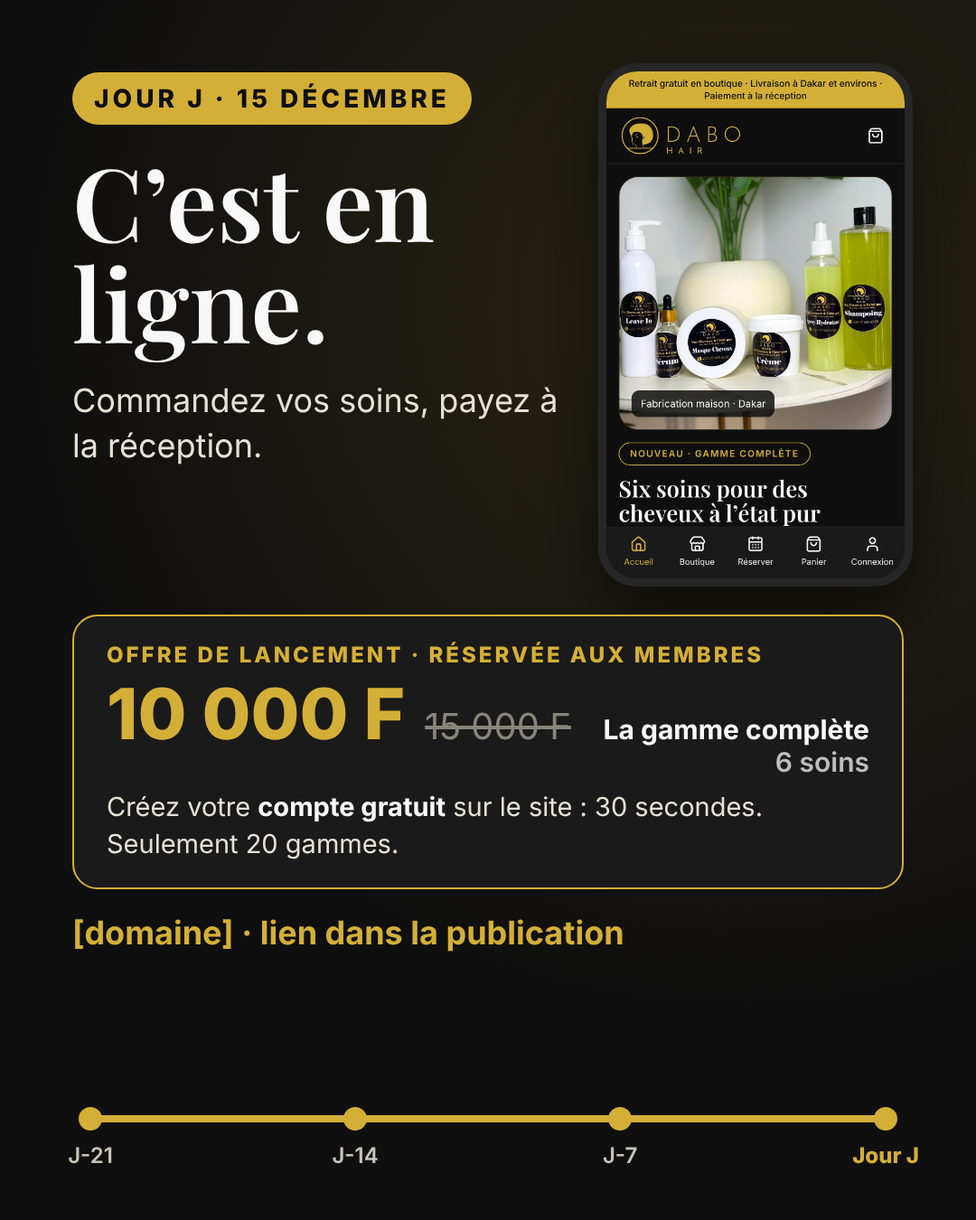
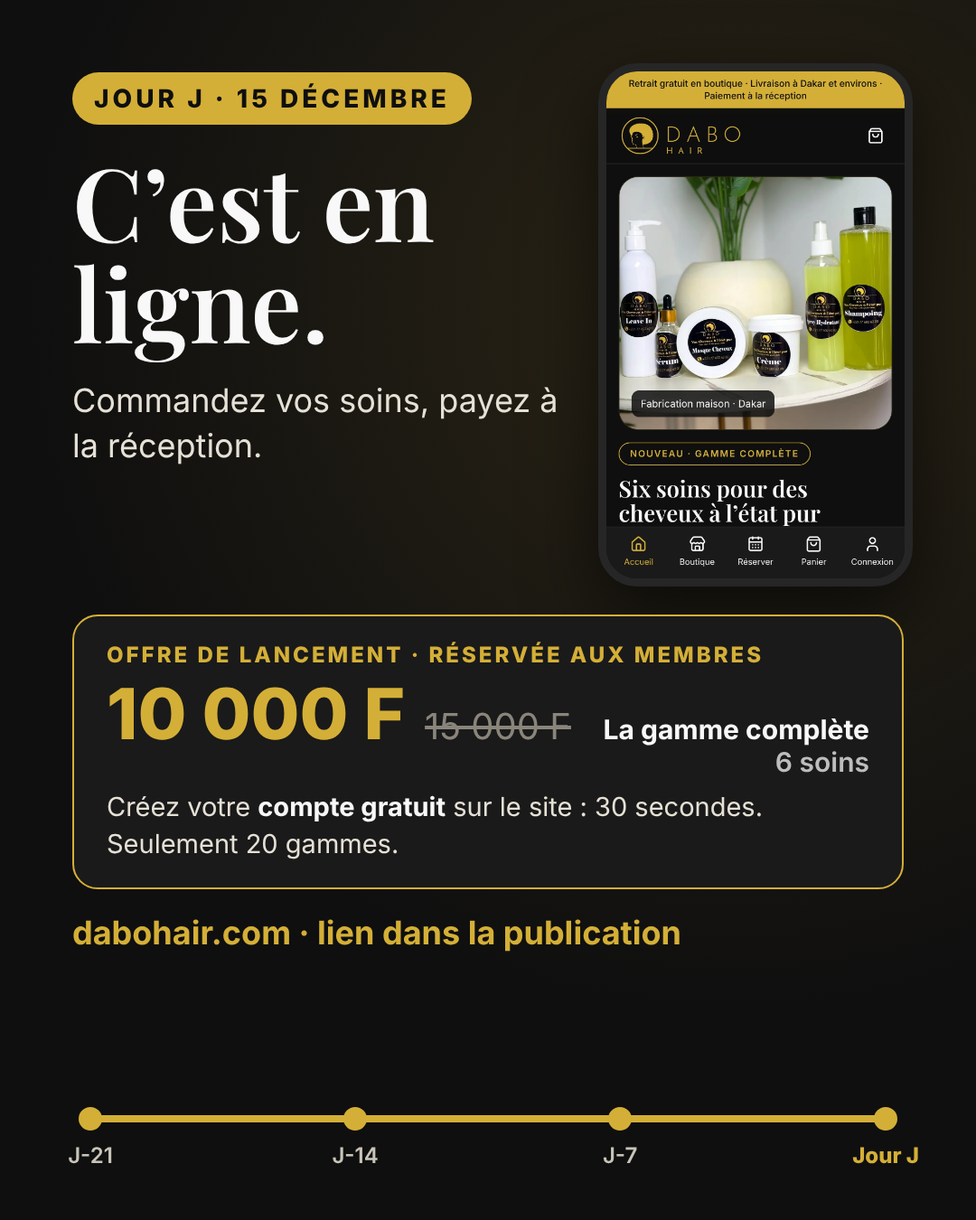
Domaine dabohair.com et Zoho Mail décidés : docs, publicités, agent
- 11_DEPLOIEMENT : décision du domaine, §1.4 e-mail (Zoho Mail Lite pour
  les boîtes, Brevo pour les envois du site, DNS MX/SPF/DKIM/DMARC),
  budget mis à jour
- Publicités Jour J : dabohair.com dans les sources et images ré-exportées
- Agent maquettes-promo : domaine connu
- .env.example : expéditeur contact@dabohair.com

Claude-Session: https://claude.ai/code/session_01AJ1A2royRJkyTBVVnu2ynX

Changed region(s): [[0.0611, 0.7467, 0.7028, 0.7778]]

diff --git a/marketing/sources/lancement/04-JourJ-snapchat.html b/marketing/sources/lancement/04-JourJ-snapchat.html
@@ -1,4 +1,4 @@
 <!doctype html>
 <html lang="fr"><head><meta charset="utf-8"><link rel="stylesheet" href="https://fonts.googleapis.com/css2?family=Inter:wght@400;600;700;800&family=Playfair+Display:wght@600;700&display=swap"><style>body{margin:0;background:#0f0f0f}</style></head><body>
-<div style="width:1080px;height:1920px;background:#0f0f0f;color:#f8f8f8;font-family:Inter,system-ui,sans-serif;position:relative;overflow:hidden"><div style="position:absolute;inset:0;background:radial-gradient(circle at 50% 40%,#2b2516 0,#0f0f0f 65%)"></div><span style="position:absolute;top:260px;left:0;right:0;text-align:center;font-family:'Playfair Display',serif;font-size:130px;font-weight:600;line-height:1">C’est en ligne.</span><div style="position:absolute;top:450px;left:80px;right:80px;display:flex;align-items:center;gap:44px"><div style="width:330px;height:561px;border-radius:43px;border:9px solid #262626;background:#0f0f0f;overflow:hidden;box-shadow:0 30px 80px rgba(0,0,0,.6);flex:none"><img src="../_images/site-accueil-tel.webp" alt="Le site Dabo Hair sur téléphone" style="width:100%;height:100%;object-fit:cover;object-position:top"></div><div style="width:526px;display:flex;flex-direction:column;gap:14px;text-align:left"><span style="font-size:24px;font-weight:800;letter-spacing:3px;text-transform:uppercase;color:#d4af37;font-size:26px">Réservé aux membres</span><span style="font-size:38px;font-weight:700;line-height:1.2">La gamme complète, 6&nbsp;soins</span><strong style="font-size:88px;font-weight:800;color:#d4af37;line-height:1">10 000 F</strong><span style="font-size:34px;color:#bdbdbd">au lieu de <s>15 000 F</s></span><span style="font-size:32px;line-height:1.35;color:#e6e1d6">Créez votre <strong style="color:#f8f8f8">compte gratuit</strong> sur le site&nbsp;: 30&nbsp;secondes.</span><span style="font-size:28px;font-weight:700;color:#bdbdbd">Seulement 20 gammes</span></div></div><div style="position:absolute;left:0;right:0;top:1100px;background:rgba(0,0,0,.6);padding:22px 50px;text-align:center;font-size:46px;font-weight:600;line-height:1.3">Touchez le lien attaché pour commander</div><span style="position:absolute;top:1290px;left:0;right:0;text-align:center;font-size:44px;font-weight:700;color:#d4af37">[domaine]</span><div style="position:absolute;left:80px;right:80px;top:1470px"><div style="width:920px;padding:0 20px;box-sizing:border-box"><div style="position:relative;height:8px;border-radius:999px;background:#2b2516;margin-bottom:48px"><div style="width:100%;height:100%;border-radius:999px;background:#d4af37"></div><span style="position:absolute;left:0%;top:50%;transform:translate(-50%,-50%);width:26px;height:26px;border-radius:999px;background:#d4af37;border:3px solid #d4af37;box-sizing:border-box"></span><span style="position:absolute;left:0%;top:30px;transform:translateX(-50%);font-size:24px;font-weight:600;color:#c9c4b8;white-space:nowrap">J-21</span><span style="position:absolute;left:33.3%;top:50%;transform:translate(-50%,-50%);width:26px;height:26px;border-radius:999px;background:#d4af37;border:3px solid #d4af37;box-sizing:border-box"></span><span style="position:absolute;left:33.3%;top:30px;transform:translateX(-50%);font-size:24px;font-weight:600;color:#c9c4b8;white-space:nowrap">J-14</span><span style="position:absolute;left:66.6%;top:50%;transform:translate(-50%,-50%);width:26px;height:26px;border-radius:999px;background:#d4af37;border:3px solid #d4af37;box-sizing:border-box"></span><span style="position:absolute;left:66.6%;top:30px;transform:translateX(-50%);font-size:24px;font-weight:600;color:#c9c4b8;white-space:nowrap">J-7</span><span style="position:absolute;left:100%;top:50%;transform:translate(-50%,-50%);width:26px;height:26px;border-radius:999px;background:#d4af37;border:3px solid #d4af37;box-sizing:border-box"></span><span style="position:absolute;left:100%;top:30px;transform:translateX(-50%);font-size:24px;font-weight:800;color:#d4af37;white-space:nowrap">Jour J</span></div></div></div></div>
+<div style="width:1080px;height:1920px;background:#0f0f0f;color:#f8f8f8;font-family:Inter,system-ui,sans-serif;position:relative;overflow:hidden"><div style="position:absolute;inset:0;background:radial-gradient(circle at 50% 40%,#2b2516 0,#0f0f0f 65%)"></div><span style="position:absolute;top:260px;left:0;right:0;text-align:center;font-family:'Playfair Display',serif;font-size:130px;font-weight:600;line-height:1">C’est en ligne.</span><div style="position:absolute;top:450px;left:80px;right:80px;display:flex;align-items:center;gap:44px"><div style="width:330px;height:561px;border-radius:43px;border:9px solid #262626;background:#0f0f0f;overflow:hidden;box-shadow:0 30px 80px rgba(0,0,0,.6);flex:none"><img src="../_images/site-accueil-tel.webp" alt="Le site Dabo Hair sur téléphone" style="width:100%;height:100%;object-fit:cover;object-position:top"></div><div style="width:526px;display:flex;flex-direction:column;gap:14px;text-align:left"><span style="font-size:24px;font-weight:800;letter-spacing:3px;text-transform:uppercase;color:#d4af37;font-size:26px">Réservé aux membres</span><span style="font-size:38px;font-weight:700;line-height:1.2">La gamme complète, 6&nbsp;soins</span><strong style="font-size:88px;font-weight:800;color:#d4af37;line-height:1">10 000 F</strong><span style="font-size:34px;color:#bdbdbd">au lieu de <s>15 000 F</s></span><span style="font-size:32px;line-height:1.35;color:#e6e1d6">Créez votre <strong style="color:#f8f8f8">compte gratuit</strong> sur le site&nbsp;: 30&nbsp;secondes.</span><span style="font-size:28px;font-weight:700;color:#bdbdbd">Seulement 20 gammes</span></div></div><div style="position:absolute;left:0;right:0;top:1100px;background:rgba(0,0,0,.6);padding:22px 50px;text-align:center;font-size:46px;font-weight:600;line-height:1.3">Touchez le lien attaché pour commander</div><span style="position:absolute;top:1290px;left:0;right:0;text-align:center;font-size:44px;font-weight:700;color:#d4af37">dabohair.com</span><div style="position:absolute;left:80px;right:80px;top:1470px"><div style="width:920px;padding:0 20px;box-sizing:border-box"><div style="position:relative;height:8px;border-radius:999px;background:#2b2516;margin-bottom:48px"><div style="width:100%;height:100%;border-radius:999px;background:#d4af37"></div><span style="position:absolute;left:0%;top:50%;transform:translate(-50%,-50%);width:26px;height:26px;border-radius:999px;background:#d4af37;border:3px solid #d4af37;box-sizing:border-box"></span><span style="position:absolute;left:0%;top:30px;transform:translateX(-50%);font-size:24px;font-weight:600;color:#c9c4b8;white-space:nowrap">J-21</span><span style="position:absolute;left:33.3%;top:50%;transform:translate(-50%,-50%);width:26px;height:26px;border-radius:999px;background:#d4af37;border:3px solid #d4af37;box-sizing:border-box"></span><span style="position:absolute;left:33.3%;top:30px;transform:translateX(-50%);font-size:24px;font-weight:600;color:#c9c4b8;white-space:nowrap">J-14</span><span style="position:absolute;left:66.6%;top:50%;transform:translate(-50%,-50%);width:26px;height:26px;border-radius:999px;background:#d4af37;border:3px solid #d4af37;box-sizing:border-box"></span><span style="position:absolute;left:66.6%;top:30px;transform:translateX(-50%);font-size:24px;font-weight:600;color:#c9c4b8;white-space:nowrap">J-7</span><span style="position:absolute;left:100%;top:50%;transform:translate(-50%,-50%);width:26px;height:26px;border-radius:999px;background:#d4af37;border:3px solid #d4af37;box-sizing:border-box"></span><span style="position:absolute;left:100%;top:30px;transform:translateX(-50%);font-size:24px;font-weight:800;color:#d4af37;white-space:nowrap">Jour J</span></div></div></div></div>
 </body></html>

diff --git a/docs/maquettes/sources/Lancement4Snap.dc.html b/docs/maquettes/sources/Lancement4Snap.dc.html
@@ -11,7 +11,7 @@
 <link rel="stylesheet" href="https://fonts.googleapis.com/css2?family=Inter:wght@400;500;600;700;800&family=Playfair+Display:wght@500;600;700&display=swap">
 <style>body{margin:0;background:#0f0f0f}</style>
 </helmet>
-<div style="width:1080px;height:1920px;background:#0f0f0f;color:#f8f8f8;font-family:Inter,system-ui,sans-serif;position:relative;overflow:hidden"><div style="position:absolute;inset:0;background:radial-gradient(circle at 50% 40%,#2b2516 0,#0f0f0f 65%)"></div><span style="position:absolute;top:230px;left:0;right:0;text-align:center;font-family:'Playfair Display',serif;font-size:130px;font-weight:600;line-height:1">C’est en ligne.</span><div style="position:absolute;top:420px;left:0;right:0;display:flex;justify-content:center"><div style="width:440px;height:748px;border-radius:57px;border:12px solid #262626;background:#0f0f0f;overflow:hidden;box-shadow:0 30px 80px rgba(0,0,0,.6);flex:none"><img src="/_blob/2ff386b7bced4af89435f0a29ca485e6" alt="Le site Dabo Hair sur téléphone" style="width:100%;height:100%;object-fit:cover;object-position:top"></div></div><div style="position:absolute;left:0;right:0;top:1200px;background:rgba(0,0,0,.6);padding:22px 50px;text-align:center;font-size:46px;font-weight:600;line-height:1.3">Touche le lien attaché pour commander</div><span style="position:absolute;top:1360px;left:0;right:0;text-align:center;font-size:44px;font-weight:700;color:#d4af37">[domaine]</span><div style="position:absolute;left:80px;right:80px;top:1500px"><div style="width:920px;padding:0 20px;box-sizing:border-box"><div style="position:relative;height:8px;border-radius:999px;background:#2b2516;margin-bottom:48px"><div style="width:100%;height:100%;border-radius:999px;background:#d4af37"></div><span style="position:absolute;left:0%;top:50%;transform:translate(-50%,-50%);width:26px;height:26px;border-radius:999px;background:#d4af37;border:3px solid #d4af37;box-sizing:border-box"></span><span style="position:absolute;left:0%;top:30px;transform:translateX(-50%);font-size:24px;font-weight:600;color:#c9c4b8;white-space:nowrap">J-21</span><span style="position:absolute;left:33.3%;top:50%;transform:translate(-50%,-50%);width:26px;height:26px;border-radius:999px;background:#d4af37;border:3px solid #d4af37;box-sizing:border-box"></span><span style="position:absolute;left:33.3%;top:30px;transform:translateX(-50%);font-size:24px;font-weight:600;color:#c9c4b8;white-space:nowrap">J-14</span><span style="position:absolute;left:66.6%;top:50%;transform:translate(-50%,-50%);width:26px;height:26px;border-radius:999px;background:#d4af37;border:3px solid #d4af37;box-sizing:border-box"></span><span style="position:absolute;left:66.6%;top:30px;transform:translateX(-50%);font-size:24px;font-weight:600;color:#c9c4b8;white-space:nowrap">J-7</span><span style="position:absolute;left:100%;top:50%;transform:translate(-50%,-50%);width:26px;height:26px;border-radius:999px;background:#d4af37;border:3px solid #d4af37;box-sizing:border-box"></span><span style="position:absolute;left:100%;top:30px;transform:translateX(-50%);font-size:24px;font-weight:800;color:#d4af37;white-space:nowrap">Jour J</span></div></div></div><div style="position:absolute;inset:0 0 auto 0;height:180px;border-bottom:2px dashed rgba(212,175,55,.35);display:flex;align-items:flex-end;justify-content:center;padding-bottom:8px;box-sizing:border-box;font-size:20px;color:rgba(212,175,55,.6)">Zone du nom (Snapchat)</div><div style="position:absolute;inset:auto 0 0 0;height:280px;border-top:2px dashed rgba(212,175,55,.35);display:flex;justify-content:center;padding-top:8px;box-sizing:border-box;font-size:20px;color:rgba(212,175,55,.6)">Zone « Répondre » et lien attaché (Snapchat)</div></div>
+<div style="width:1080px;height:1920px;background:#0f0f0f;color:#f8f8f8;font-family:Inter,system-ui,sans-serif;position:relative;overflow:hidden"><div style="position:absolute;inset:0;background:radial-gradient(circle at 50% 40%,#2b2516 0,#0f0f0f 65%)"></div><span style="position:absolute;top:230px;left:0;right:0;text-align:center;font-family:'Playfair Display',serif;font-size:130px;font-weight:600;line-height:1">C’est en ligne.</span><div style="position:absolute;top:420px;left:0;right:0;display:flex;justify-content:center"><div style="width:440px;height:748px;border-radius:57px;border:12px solid #262626;background:#0f0f0f;overflow:hidden;box-shadow:0 30px 80px rgba(0,0,0,.6);flex:none"><img src="/_blob/2ff386b7bced4af89435f0a29ca485e6" alt="Le site Dabo Hair sur téléphone" style="width:100%;height:100%;object-fit:cover;object-position:top"></div></div><div style="position:absolute;left:0;right:0;top:1200px;background:rgba(0,0,0,.6);padding:22px 50px;text-align:center;font-size:46px;font-weight:600;line-height:1.3">Touche le lien attaché pour commander</div><span style="position:absolute;top:1360px;left:0;right:0;text-align:center;font-size:44px;font-weight:700;color:#d4af37">dabohair.com</span><div style="position:absolute;left:80px;right:80px;top:1500px"><div style="width:920px;padding:0 20px;box-sizing:border-box"><div style="position:relative;height:8px;border-radius:999px;background:#2b2516;margin-bottom:48px"><div style="width:100%;height:100%;border-radius:999px;background:#d4af37"></div><span style="position:absolute;left:0%;top:50%;transform:translate(-50%,-50%);width:26px;height:26px;border-radius:999px;background:#d4af37;border:3px solid #d4af37;box-sizing:border-box"></span><span style="position:absolute;left:0%;top:30px;transform:translateX(-50%);font-size:24px;font-weight:600;color:#c9c4b8;white-space:nowrap">J-21</span><span style="position:absolute;left:33.3%;top:50%;transform:translate(-50%,-50%);width:26px;height:26px;border-radius:999px;background:#d4af37;border:3px solid #d4af37;box-sizing:border-box"></span><span style="position:absolute;left:33.3%;top:30px;transform:translateX(-50%);font-size:24px;font-weight:600;color:#c9c4b8;white-space:nowrap">J-14</span><span style="position:absolute;left:66.6%;top:50%;transform:translate(-50%,-50%);width:26px;height:26px;border-radius:999px;background:#d4af37;border:3px solid #d4af37;box-sizing:border-box"></span><span style="position:absolute;left:66.6%;top:30px;transform:translateX(-50%);font-size:24px;font-weight:600;color:#c9c4b8;white-space:nowrap">J-7</span><span style="position:absolute;left:100%;top:50%;transform:translate(-50%,-50%);width:26px;height:26px;border-radius:999px;background:#d4af37;border:3px solid #d4af37;box-sizing:border-box"></span><span style="position:absolute;left:100%;top:30px;transform:translateX(-50%);font-size:24px;font-weight:800;color:#d4af37;white-space:nowrap">Jour J</span></div></div></div><div style="position:absolute;inset:0 0 auto 0;height:180px;border-bottom:2px dashed rgba(212,175,55,.35);display:flex;align-items:flex-end;justify-content:center;padding-bottom:8px;box-sizing:border-box;font-size:20px;color:rgba(212,175,55,.6)">Zone du nom (Snapchat)</div><div style="position:absolute;inset:auto 0 0 0;height:280px;border-top:2px dashed rgba(212,175,55,.35);display:flex;justify-content:center;padding-top:8px;box-sizing:border-box;font-size:20px;color:rgba(212,175,55,.6)">Zone « Répondre » et lien attaché (Snapchat)</div></div>
 </x-dc>
 <script type="text/x-dc" data-dc-script data-props='{"$preview":{"width":1080,"height":1920}}'>
 class Component extends DCLogic { renderVals() { return {}; } }

diff --git a/marketing/sources/lancement/04-JourJ-whatsapp-statut.html b/marketing/sources/lancement/04-JourJ-whatsapp-statut.html
@@ -6,7 +6,7 @@
   <span style="background:#d4af37;color:#0f0f0f;font-size:32px;font-weight:800;letter-spacing:4px;text-transform:uppercase;padding:14px 30px;border-radius:999px">Jour J · 15 décembre</span>
   <h1 style="margin:0;font-family:'Playfair Display',serif;font-size:116px;font-weight:600;line-height:1">Le site est en ligne.</h1>
   <div style="display:flex;align-items:center;gap:44px"><div style="width:300px;height:510px;border-radius:39px;border:8px solid #262626;background:#0f0f0f;overflow:hidden;box-shadow:0 30px 80px rgba(0,0,0,.6);flex:none"><img src="../_images/site-accueil-tel.webp" alt="Le site Dabo Hair sur téléphone" style="width:100%;height:100%;object-fit:cover;object-position:top"></div><div style="width:540px;display:flex;flex-direction:column;gap:14px;text-align:left"><span style="font-size:24px;font-weight:800;letter-spacing:3px;text-transform:uppercase;color:#d4af37;font-size:26px">Réservé aux membres</span><span style="font-size:38px;font-weight:700;line-height:1.2">La gamme complète, 6&nbsp;soins</span><strong style="font-size:88px;font-weight:800;color:#d4af37;line-height:1">10 000 F</strong><span style="font-size:34px;color:#bdbdbd">au lieu de <s>15 000 F</s></span><span style="font-size:32px;line-height:1.35;color:#e6e1d6">Créez votre <strong style="color:#f8f8f8">compte gratuit</strong> sur le site&nbsp;: 30&nbsp;secondes.</span><span style="font-size:28px;font-weight:700;color:#bdbdbd">Seulement 20 gammes</span></div></div>
-  <p style="margin:0;font-size:48px;font-weight:700;color:#d4af37">[domaine]</p>
+  <p style="margin:0;font-size:48px;font-weight:700;color:#d4af37">dabohair.com</p>
   <p style="margin:0;font-size:30px;color:#c9c4b8">Le lien est écrit dans la légende de ce statut</p>
   <div style="margin-top:auto"><div style="width:920px;padding:0 20px;box-sizing:border-box"><div style="position:relative;height:8px;border-radius:999px;background:#2b2516;margin-bottom:48px"><div style="width:100%;height:100%;border-radius:999px;background:#d4af37"></div><span style="position:absolute;left:0%;top:50%;transform:translate(-50%,-50%);width:26px;height:26px;border-radius:999px;background:#d4af37;border:3px solid #d4af37;box-sizing:border-box"></span><span style="position:absolute;left:0%;top:30px;transform:translateX(-50%);font-size:24px;font-weight:600;color:#c9c4b8;white-space:nowrap">J-21</span><span style="position:absolute;left:33.3%;top:50%;transform:translate(-50%,-50%);width:26px;height:26px;border-radius:999px;background:#d4af37;border:3px solid #d4af37;box-sizing:border-box"></span><span style="position:absolute;left:33.3%;top:30px;transform:translateX(-50%);font-size:24px;font-weight:600;color:#c9c4b8;white-space:nowrap">J-14</span><span style="position:absolute;left:66.6%;top:50%;transform:translate(-50%,-50%);width:26px;height:26px;border-radius:999px;background:#d4af37;border:3px solid #d4af37;box-sizing:border-box"></span><span style="position:absolute;left:66.6%;top:30px;transform:translateX(-50%);font-size:24px;font-weight:600;color:#c9c4b8;white-space:nowrap">J-7</span><span style="position:absolute;left:100%;top:50%;transform:translate(-50%,-50%);width:26px;height:26px;border-radius:999px;background:#d4af37;border:3px solid #d4af37;box-sizing:border-box"></span><span style="position:absolute;left:100%;top:30px;transform:translateX(-50%);font-size:24px;font-weight:800;color:#d4af37;white-space:nowrap">Jour J</span></div></div></div>
 </div></div>

diff --git a/docs/maquettes/sources/Lancement4WhatsApp.dc.html b/docs/maquettes/sources/Lancement4WhatsApp.dc.html
@@ -17,7 +17,7 @@
   <span style="background:#d4af37;color:#0f0f0f;font-size:32px;font-weight:800;letter-spacing:4px;text-transform:uppercase;padding:14px 30px;border-radius:999px">Jour J</span>
   <h1 style="margin:0;font-family:'Playfair Display',serif;font-size:120px;font-weight:600;line-height:1">Le site est en ligne.</h1>
   <div style="width:360px;height:612px;border-radius:47px;border:10px solid #262626;background:#0f0f0f;overflow:hidden;box-shadow:0 30px 80px rgba(0,0,0,.6);flex:none"><img src="/_blob/2ff386b7bced4af89435f0a29ca485e6" alt="Le site Dabo Hair sur téléphone" style="width:100%;height:100%;object-fit:cover;object-position:top"></div>
-  <p style="margin:0;font-size:48px;font-weight:700;color:#d4af37">[domaine]</p>
+  <p style="margin:0;font-size:48px;font-weight:700;color:#d4af37">dabohair.com</p>
   <p style="margin:0;font-size:30px;color:#c9c4b8">Le lien est écrit dans la légende de ce statut</p>
   <div style="margin-top:auto"><div style="width:920px;padding:0 20px;box-sizing:border-box"><div style="position:relative;height:8px;border-radius:999px;background:#2b2516;margin-bottom:48px"><div style="width:100%;height:100%;border-radius:999px;background:#d4af37"></div><span style="position:absolute;left:0%;top:50%;transform:translate(-50%,-50%);width:26px;height:26px;border-radius:999px;background:#d4af37;border:3px solid #d4af37;box-sizing:border-box"></span><span style="position:absolute;left:0%;top:30px;transform:translateX(-50%);font-size:24px;font-weight:600;color:#c9c4b8;white-space:nowrap">J-21</span><span style="position:absolute;left:33.3%;top:50%;transform:translate(-50%,-50%);width:26px;height:26px;border-radius:999px;background:#d4af37;border:3px solid #d4af37;box-sizing:border-box"></span><span style="position:absolute;left:33.3%;top:30px;transform:translateX(-50%);font-size:24px;font-weight:600;color:#c9c4b8;white-space:nowrap">J-14</span><span style="position:absolute;left:66.6%;top:50%;transform:translate(-50%,-50%);width:26px;height:26px;border-radius:999px;background:#d4af37;border:3px solid #d4af37;box-sizing:border-box"></span><span style="position:absolute;left:66.6%;top:30px;transform:translateX(-50%);font-size:24px;font-weight:600;color:#c9c4b8;white-space:nowrap">J-7</span><span style="position:absolute;left:100%;top:50%;transform:translate(-50%,-50%);width:26px;height:26px;border-radius:999px;background:#d4af37;border:3px solid #d4af37;box-sizing:border-box"></span><span style="position:absolute;left:100%;top:30px;transform:translateX(-50%);font-size:24px;font-weight:800;color:#d4af37;white-space:nowrap">Jour J</span></div></div></div>
 </div><div style="position:absolute;inset:0 0 auto 0;height:200px;border-bottom:2px dashed rgba(212,175,55,.35);display:flex;align-items:flex-end;justify-content:center;padding-bottom:8px;box-sizing:border-box;font-size:20px;color:rgba(212,175,55,.6)">Zone du nom et de l’heure (WhatsApp)</div><div style="position:absolute;inset:auto 0 0 0;height:240px;border-top:2px dashed rgba(212,175,55,.35);display:flex;justify-content:center;padding-top:8px;box-sizing:border-box;font-size:20px;color:rgba(212,175,55,.6)">Zone « Répondre » (WhatsApp)</div></div>

diff --git a/marketing/sources/lancement/04-JourJ-facebook-publication.html b/marketing/sources/lancement/04-JourJ-facebook-publication.html
@@ -10,7 +10,7 @@
 </div>
 <div style="position:absolute;left:80px;right:80px;top:680px;bottom:60px;display:flex;flex-direction:column;gap:26px">
   <div style="background:#1a1a1a;border:2px solid #d4af37;border-radius:28px;padding:28px 36px;display:flex;flex-direction:column;gap:12px"><span style="font-size:24px;font-weight:800;letter-spacing:3px;text-transform:uppercase;color:#d4af37">Offre de lancement · réservée aux membres</span><div style="display:flex;align-items:baseline;gap:22px"><strong style="font-size:78px;font-weight:800;color:#d4af37;line-height:1">10 000 F</strong><s style="font-size:40px;color:#8a857b">15 000 F</s><span style="margin-left:auto;font-size:30px;font-weight:700;text-align:right;line-height:1.2">La gamme complète<br><span style="font-weight:600;color:#bdbdbd">6 soins</span></span></div><span style="font-size:29px;line-height:1.4;color:#e6e1d6">Créez votre <strong style="color:#f8f8f8">compte gratuit</strong> sur le site&nbsp;: 30&nbsp;secondes. Seulement 20&nbsp;gammes.</span></div>
-  <p style="margin:0;font-size:36px;font-weight:700;color:#d4af37">[domaine] · lien dans la publication</p>
+  <p style="margin:0;font-size:36px;font-weight:700;color:#d4af37">dabohair.com · lien dans la publication</p>
   <div style="margin-top:auto"><div style="width:920px;padding:0 20px;box-sizing:border-box"><div style="position:relative;height:8px;border-radius:999px;background:#2b2516;margin-bottom:48px"><div style="width:100%;height:100%;border-radius:999px;background:#d4af37"></div><span style="position:absolute;left:0%;top:50%;transform:translate(-50%,-50%);width:26px;height:26px;border-radius:999px;background:#d4af37;border:3px solid #d4af37;box-sizing:border-box"></span><span style="position:absolute;left:0%;top:30px;transform:translateX(-50%);font-size:24px;font-weight:600;color:#c9c4b8;white-space:nowrap">J-21</span><span style="position:absolute;left:33.3%;top:50%;transform:translate(-50%,-50%);width:26px;height:26px;border-radius:999px;background:#d4af37;border:3px solid #d4af37;box-sizing:border-box"></span><span style="position:absolute;left:33.3%;top:30px;transform:translateX(-50%);font-size:24px;font-weight:600;color:#c9c4b8;white-space:nowrap">J-14</span><span style="position:absolute;left:66.6%;top:50%;transform:translate(-50%,-50%);width:26px;height:26px;border-radius:999px;background:#d4af37;border:3px solid #d4af37;box-sizing:border-box"></span><span style="position:absolute;left:66.6%;top:30px;transform:translateX(-50%);font-size:24px;font-weight:600;color:#c9c4b8;white-space:nowrap">J-7</span><span style="position:absolute;left:100%;top:50%;transform:translate(-50%,-50%);width:26px;height:26px;border-radius:999px;background:#d4af37;border:3px solid #d4af37;box-sizing:border-box"></span><span style="position:absolute;left:100%;top:30px;transform:translateX(-50%);font-size:24px;font-weight:800;color:#d4af37;white-space:nowrap">Jour J</span></div></div></div>
 </div></div>
 </body></html>

diff --git a/marketing/sources/lancement/04-JourJ-instagram-publication.html b/marketing/sources/lancement/04-JourJ-instagram-publication.html
@@ -10,7 +10,7 @@
 </div>
 <div style="position:absolute;left:80px;right:80px;top:680px;bottom:60px;display:flex;flex-direction:column;gap:26px">
   <div style="background:#1a1a1a;border:2px solid #d4af37;border-radius:28px;padding:28px 36px;display:flex;flex-direction:column;gap:12px"><span style="font-size:24px;font-weight:800;letter-spacing:3px;text-transform:uppercase;color:#d4af37">Offre de lancement · réservée aux membres</span><div style="display:flex;align-items:baseline;gap:22px"><strong style="font-size:78px;font-weight:800;color:#d4af37;line-height:1">10 000 F</strong><s style="font-size:40px;color:#8a857b">15 000 F</s><span style="margin-left:auto;font-size:30px;font-weight:700;text-align:right;line-height:1.2">La gamme complète<br><span style="font-weight:600;color:#bdbdbd">6 soins</span></span></div><span style="font-size:29px;line-height:1.4;color:#e6e1d6">Créez votre <strong style="color:#f8f8f8">compte gratuit</strong> sur le site&nbsp;: 30&nbsp;secondes. Seulement 20&nbsp;gammes.</span></div>
-  <p style="margin:0;font-size:36px;font-weight:700;color:#d4af37">[domaine] · lien en bio</p>
+  <p style="margin:0;font-size:36px;font-weight:700;color:#d4af37">dabohair.com · lien en bio</p>
   <div style="margin-top:auto"><div style="width:920px;padding:0 20px;box-sizing:border-box"><div style="position:relative;height:8px;border-radius:999px;background:#2b2516;margin-bottom:48px"><div style="width:100%;height:100%;border-radius:999px;background:#d4af37"></div><span style="position:absolute;left:0%;top:50%;transform:translate(-50%,-50%);width:26px;height:26px;border-radius:999px;background:#d4af37;border:3px solid #d4af37;box-sizing:border-box"></span><span style="position:absolute;left:0%;top:30px;transform:translateX(-50%);font-size:24px;font-weight:600;color:#c9c4b8;white-space:nowrap">J-21</span><span style="position:absolute;left:33.3%;top:50%;transform:translate(-50%,-50%);width:26px;height:26px;border-radius:999px;background:#d4af37;border:3px solid #d4af37;box-sizing:border-box"></span><span style="position:absolute;left:33.3%;top:30px;transform:translateX(-50%);font-size:24px;font-weight:600;color:#c9c4b8;white-space:nowrap">J-14</span><span style="position:absolute;left:66.6%;top:50%;transform:translate(-50%,-50%);width:26px;height:26px;border-radius:999px;background:#d4af37;border:3px solid #d4af37;box-sizing:border-box"></span><span style="position:absolute;left:66.6%;top:30px;transform:translateX(-50%);font-size:24px;font-weight:600;color:#c9c4b8;white-space:nowrap">J-7</span><span style="position:absolute;left:100%;top:50%;transform:translate(-50%,-50%);width:26px;height:26px;border-radius:999px;background:#d4af37;border:3px solid #d4af37;box-sizing:border-box"></span><span style="position:absolute;left:100%;top:30px;transform:translateX(-50%);font-size:24px;font-weight:800;color:#d4af37;white-space:nowrap">Jour J</span></div></div></div>
 </div></div>
 </body></html>

diff --git a/docs/maquettes/sources/Lancement4Insta.dc.html b/docs/maquettes/sources/Lancement4Insta.dc.html
@@ -18,7 +18,7 @@
   <span style="align-self:flex-start;background:#d4af37;color:#0f0f0f;font-size:28px;font-weight:800;letter-spacing:4px;text-transform:uppercase;padding:12px 24px;border-radius:999px">Jour J</span>
   <h1 style="margin:0;font-family:'Playfair Display',serif;font-size:112px;font-weight:600;line-height:1">C’est en ligne.</h1>
   <p style="margin:0;font-size:38px;line-height:1.4;color:#e6e1d6">Commandez vos soins, réservez votre twist, payez à la réception.</p>
-  <p style="margin:0;font-size:40px;font-weight:700;color:#d4af37">[domaine] · lien en bio</p>
+  <p style="margin:0;font-size:40px;font-weight:700;color:#d4af37">dabohair.com · lien en bio</p>
   <div style="margin-top:auto"><div style="width:520px;padding:0 20px;box-sizing:border-box"><div style="position:relative;height:8px;border-radius:999px;background:#2b2516;margin-bottom:48px"><div style="width:100%;height:100%;border-radius:999px;background:#d4af37"></div><span style="position:absolute;left:0%;top:50%;transform:translate(-50%,-50%);width:26px;height:26px;border-radius:999px;background:#d4af37;border:3px solid #d4af37;box-sizing:border-box"></span><span style="position:absolute;left:0%;top:30px;transform:translateX(-50%);font-size:24px;font-weight:600;color:#c9c4b8;white-space:nowrap">J-21</span><span style="position:absolute;left:33.3%;top:50%;transform:translate(-50%,-50%);width:26px;height:26px;border-radius:999px;background:#d4af37;border:3px solid #d4af37;box-sizing:border-box"></span><span style="position:absolute;left:33.3%;top:30px;transform:translateX(-50%);font-size:24px;font-weight:600;color:#c9c4b8;white-space:nowrap">J-14</span><span style="position:absolute;left:66.6%;top:50%;transform:translate(-50%,-50%);width:26px;height:26px;border-radius:999px;background:#d4af37;border:3px solid #d4af37;box-sizing:border-box"></span><span style="position:absolute;left:66.6%;top:30px;transform:translateX(-50%);font-size:24px;font-weight:600;color:#c9c4b8;white-space:nowrap">J-7</span><span style="position:absolute;left:100%;top:50%;transform:translate(-50%,-50%);width:26px;height:26px;border-radius:999px;background:#d4af37;border:3px solid #d4af37;box-sizing:border-box"></span><span style="position:absolute;left:100%;top:30px;transform:translateX(-50%);font-size:24px;font-weight:800;color:#d4af37;white-space:nowrap">Jour J</span></div></div></div>
 </div></div>
 </x-dc>

diff --git a/docs/maquettes/sources/InstaLegende.dc.html b/docs/maquettes/sources/InstaLegende.dc.html
@@ -29,7 +29,7 @@ Dabo Hair, vos cheveux à l’état pur.
 
 #DaboHair #Dakar #Senegal #CheveuxNaturels #SoinsCapillaires #Twist #MadeInSenegal</div>
   <h2 style="margin:8px 0 0;font-family:'Playfair Display',serif;font-size:24px">Lien de la bio (pour mesurer)</h2>
-  <code style="background:#1a1a1a;color:#d4af37;border-radius:12px;padding:16px;font-size:14px;word-break:break-all">https://[domaine]/?utm_source=instagram&amp;utm_medium=bio&amp;utm_campaign=promo-gammes-2026-11</code>
+  <code style="background:#1a1a1a;color:#d4af37;border-radius:12px;padding:16px;font-size:14px;word-break:break-all">https://dabohair.com/?utm_source=instagram&amp;utm_medium=bio&amp;utm_campaign=promo-gammes-2026-11</code>
   <p style="margin:0;color:#555">Le même lien avec <b>utm_medium=story</b> pour l’autocollant de la story : le tableau de bord dira alors combien de commandes viennent du post et combien de la story.</p>
   <h2 style="margin:8px 0 0;font-family:'Playfair Display',serif;font-size:24px">Formats</h2>
   <p style="margin:0;color:#555">Publication : 1080 × 1350 px (portrait 4:5, la plus grande place dans le fil).<br>Story : 1080 × 1920 px. Le haut (250 px) et le bas (340 px) sont cachés par Instagram : rien d’important dedans.</p>

diff --git a/marketing/sources/lancement/LISEZ-MOI.md b/marketing/sources/lancement/LISEZ-MOI.md
@@ -42,13 +42,13 @@ Jamais dans l'image. Un lien par réseau, le même pendant toute la campagne :
 
 | Réseau | Où mettre le lien | Lien |
 |---|---|---|
-| Instagram | bio | `https://[domaine]/?utm_source=instagram&utm_medium=bio&utm_campaign=lancement-2026-12` |
-| Facebook | texte de la publication | `https://[domaine]/?utm_source=facebook&utm_medium=post&utm_campaign=lancement-2026-12` |
-| WhatsApp | légende du statut, message de diffusion | `https://[domaine]/?utm_source=whatsapp&utm_medium=statut&utm_campaign=lancement-2026-12` |
-| TikTok | bio | `https://[domaine]/?utm_source=tiktok&utm_medium=bio&utm_campaign=lancement-2026-12` |
-| Snapchat | trombone (lien attaché) | `https://[domaine]/?utm_source=snapchat&utm_medium=story&utm_campaign=lancement-2026-12` |
+| Instagram | bio | `https://dabohair.com/?utm_source=instagram&utm_medium=bio&utm_campaign=lancement-2026-12` |
+| Facebook | texte de la publication | `https://dabohair.com/?utm_source=facebook&utm_medium=post&utm_campaign=lancement-2026-12` |
+| WhatsApp | légende du statut, message de diffusion | `https://dabohair.com/?utm_source=whatsapp&utm_medium=statut&utm_campaign=lancement-2026-12` |
+| TikTok | bio | `https://dabohair.com/?utm_source=tiktok&utm_medium=bio&utm_campaign=lancement-2026-12` |
+| Snapchat | trombone (lien attaché) | `https://dabohair.com/?utm_source=snapchat&utm_medium=story&utm_campaign=lancement-2026-12` |
 
-Le Jour J, on peut aussi envoyer directement vers la création de compte (la page existe : `/inscription`), en gardant la source, par exemple `https://[domaine]/inscription?utm_source=whatsapp&utm_medium=statut&utm_campaign=lancement-2026-12`. À décider avec Awa `[à confirmer]`.
+Le Jour J, on peut aussi envoyer directement vers la création de compte (la page existe : `/inscription`), en gardant la source, par exemple `https://dabohair.com/inscription?utm_source=whatsapp&utm_medium=statut&utm_campaign=lancement-2026-12`. À décider avec Awa `[à confirmer]`.
 
 Avant le Jour J, le site n'est pas ouvert : J-21 à J-1, les légendes ne donnent **pas** de lien, elles invitent à suivre le compte ou à enregistrer le numéro.
 
@@ -114,8 +114,8 @@ Remplacer le dernier selon le moment : `#Bientot` (J-21), `#NouveauSite` (J-14),
 | Fichier | Réseau | Légende |
 |---|---|---|
 | `04-JourJ-instagram-publication` | Instagram, publication | C'est en ligne ! Commandez vos soins Dabo Hair et payez à la réception. Pour notre communauté : la gamme complète à 10 000 F au lieu de 15 000 F pour les membres. Créez votre compte gratuit sur le site, 30 secondes. Seulement 20 gammes. Lien en bio. #DaboHair #FaitADakar #CheveuxNaturels #SoinsCapillaires #Dakar #Senegal #Lancement |
-| `04-JourJ-facebook-publication` | Facebook, publication | C'est en ligne ! Le site Dabo Hair est ouvert : https://[domaine]/?utm_source=facebook&utm_medium=post&utm_campaign=lancement-2026-12 — Créez votre compte gratuit (30 secondes) et la gamme complète est à 10 000 F au lieu de 15 000 F. Sans compte : 15 000 F. Seulement 20 gammes. Livraison à Dakar et environs ou retrait gratuit au salon, paiement à la réception. #DaboHair #FaitADakar #CheveuxNaturels #Dakar #Lancement |
-| `04-JourJ-whatsapp-statut` | Statut WhatsApp (+ message de diffusion) | Le site Dabo Hair est en ligne : https://[domaine]/?utm_source=whatsapp&utm_medium=statut&utm_campaign=lancement-2026-12 — Créez votre compte gratuit (30 secondes) : la gamme complète est à 10 000 F au lieu de 15 000 F. Seulement 20 gammes. |
+| `04-JourJ-facebook-publication` | Facebook, publication | C'est en ligne ! Le site Dabo Hair est ouvert : https://dabohair.com/?utm_source=facebook&utm_medium=post&utm_campaign=lancement-2026-12 — Créez votre compte gratuit (30 secondes) et la gamme complète est à 10 000 F au lieu de 15 000 F. Sans compte : 15 000 F. Seulement 20 gammes. Livraison à Dakar et environs ou retrait gratuit au salon, paiement à la réception. #DaboHair #FaitADakar #CheveuxNaturels #Dakar #Lancement |
+| `04-JourJ-whatsapp-statut` | Statut WhatsApp (+ message de diffusion) | Le site Dabo Hair est en ligne : https://dabohair.com/?utm_source=whatsapp&utm_medium=statut&utm_campaign=lancement-2026-12 — Créez votre compte gratuit (30 secondes) : la gamme complète est à 10 000 F au lieu de 15 000 F. Seulement 20 gammes. |
 | `04-JourJ-tiktok-couverture` | TikTok, couverture (vidéo partie 4) | Partie 4 sur 4 : le site est en ligne ! Lien dans la bio. Membres (compte gratuit) : la gamme complète à 10 000 F au lieu de 15 000 F. #DaboHair #FaitADakar #CheveuxNaturels #Dakar #PourToi #Lancement |
 | `04-JourJ-snapchat` | Snapchat, story + lien attaché (trombone) | C'est en ligne ! Touchez le lien attaché. Gamme complète à 10 000 F pour les membres, compte gratuit. |
 
@@ -123,11 +123,11 @@ Remplacer le dernier selon le moment : `#Bientot` (J-21), `#NouveauSite` (J-14),
 
 | Visuel ou texte | Provisoire | Il faut | Qui |
 |---|---|---|---|
-| `04-JourJ-instagram-publication`, `04-JourJ-facebook-publication`, `04-JourJ-whatsapp-statut`, `04-JourJ-snapchat` (image) et tous les liens ci-dessus | `[domaine]` | le nom de domaine | Awa |
+| Tous les visuels J-7 → Jour J | « gamme complète », « seulement 20 gammes » | refaire avec les **3 gammes** (avocat, palme, coco), **200 unités**, et la décision sur la livraison (incluse ou non) — décisions du 23 novembre | agent `maquettes-promo` |
 | Liens des comptes (bio Instagram et TikTok, page Facebook, compte Snapchat) | non connus | les adresses des comptes | Awa |
 | `03-J3-…-tiktok-couverture` (vidéo avis de clientes) | `[à confirmer]` | l'accord écrit de chaque cliente filmée | Awa |
 | Offre membres : modalités | absentes | une gamme par membre ou plus ? vérification du compte (SMS) ? date de fin ? | Awa |
-| Story J-1 Instagram (sans maquette) | « demain à [heure à confirmer] » | l'heure d'ouverture du site | Awa |
+| Story J-1 Instagram (sans maquette) | « demain à 18 h » | ouverture le 15 décembre à **18 h** (décidé le 23 novembre) | fait |
 | Tous les visuels J-7 → Jour J | prix 10 000 F membre | que le site facture vraiment 10 000 F à un membre et 15 000 F sans compte, et vende la gamme en un seul article (voir ci-dessous) | session principale |
 | « compte gratuit, 30 secondes » | à vérifier | le formulaire `/inscription` demande 6 champs + une case : chronométrer sur téléphone | Awa |
 

diff --git a/docs/11_DEPLOIEMENT.md b/docs/11_DEPLOIEMENT.md
@@ -10,7 +10,7 @@
 
 ### 1.1 Le nom de domaine
 
-**Recommandation : `dabohair.com`, acheté chez Cloudflare Registrar ou Porkbun.**
+**Décidé le 24 novembre 2026 : `dabohair.com`**, acheté chez Cloudflare Registrar ou Porkbun. Le `.sn` est écarté pour l'instant.
 
 | Bureau d'enregistrement | Prix d'un .com par an (renouvellement) | Pour | Contre |
 |---|---|---|---|
@@ -56,10 +56,40 @@ ping -n 10 gra.proof.ovh.net
 | Serveur VPS | 6 à 9 € TTC (4 000 à 6 000 F CFA) |
 | Domaine .com (11 $ par an) | environ 600 F CFA |
 | Copie des sauvegardes hors du serveur (stockage objet, quelques Go) | moins de 1 € (500 F CFA) |
+| Boîtes e-mail Zoho Mail Lite (2 adresses, environ 1 $ chacune, payé à l'année) | environ 1 200 F CFA |
+| E-mails envoyés par le site (Brevo, offre gratuite, 300 par jour) | gratuit |
 | Certificat HTTPS (Let's Encrypt), surveillance (UptimeRobot) | gratuit |
-| **Total** | **environ 7 000 F CFA par mois** |
+| **Total** | **environ 7 000 à 8 000 F CFA par mois** (environ 75 000 à 100 000 F CFA la première année) |
 
 Le taux euro / franc CFA est fixe : 1 € = 655,957 F CFA.
+
+### 1.4 L'e-mail (décidé le 24 novembre 2026 : Zoho Mail)
+
+Deux besoins différents, deux services :
+
+| Besoin | Service | Exemple |
+|---|---|---|
+| **Les boîtes de l'équipe** : lire et répondre | **Zoho Mail Lite** (environ 1 $ par personne et par mois, payé à l'année) | `contact@dabohair.com` (clientes), `awa@dabohair.com` (propriétaire, reçoit aussi les alertes d'erreur `ALERT_EMAIL`) |
+| **Les e-mails envoyés par le site** : confirmations, rappels, alertes | **Brevo**, offre gratuite (300 par jour) | expéditeur `contact@dabohair.com` : si une cliente répond, la réponse arrive dans la boîte Zoho |
+
+Pourquoi pas une seule boîte pour tout ? Une boîte personnelle qui envoie des centaines de messages automatiques finit bloquée ou classée en indésirable. Brevo est fait pour ça, et Gmail ou Outlook le reconnaissent.
+
+**Mise en place (30 minutes, après l'achat du domaine) :**
+
+1. Créer le compte Zoho Mail, choisir **Mail Lite**, ajouter le domaine `dabohair.com`, créer `contact@` et `awa@`.
+2. Zoho affiche les enregistrements DNS à créer chez le bureau d'enregistrement : **copiez exactement les valeurs que Zoho affiche** (elles dépendent du centre de données choisi, `zoho.com` ou `zoho.eu`).
+
+| Type | Nom | Rôle |
+|---|---|---|
+| TXT | `@` | prouver à Zoho que le domaine est à vous (`zoho-verification=…`) |
+| MX (3 lignes, priorités 10, 20, 50) | `@` | **recevoir** les e-mails chez Zoho |
+| TXT (SPF) | `@` | dire au monde qui a le droit d'envoyer pour `dabohair.com` |
+| TXT (DKIM) | `zmail._domainkey` (Zoho) et celui donné par Brevo | signer chaque e-mail : preuve qu'il n'a pas été modifié |
+| TXT (DMARC) | `_dmarc` | consigne aux autres messageries si un e-mail échoue aux contrôles, par exemple `v=DMARC1; p=none; rua=mailto:awa@dabohair.com` au début |
+
+3. **Piège classique : un seul enregistrement SPF.** Zoho et Brevo envoient tous les deux pour votre domaine : leurs autorisations vont dans **la même** ligne, par exemple `v=spf1 include:zohomail.com include:spf.brevo.com ~all` (vérifiez les noms exacts dans chaque console). Deux lignes `v=spf1` séparées annulent les deux.
+4. Créer le compte Brevo, ajouter et authentifier le domaine (Brevo donne son DKIM), puis mettre les accès SMTP dans `/var/www/dabohair/shared/.env` sur le serveur, jamais dans Git ([13_NOTIFICATIONS_ET_AVIS.md §5](13_NOTIFICATIONS_ET_AVIS.md)).
+5. Tester : envoyer un e-mail de `contact@dabohair.com` vers une adresse Gmail, ouvrir « Afficher l'original » : SPF, DKIM et DMARC doivent indiquer **PASS**.
 
 ---
 
@@ -281,7 +311,6 @@ bash /var/www/dabohair/current/deploy/restore.sh /var/backups/dabohair/FICHIER.s
 ## 8. Plus tard (quand le besoin apparaîtra)
 
 - **Déploiement automatique** depuis GitHub Actions : la CI se connecte en SSH et lance `deploy.sh` quand tout est vert. À mettre en place quand les mises à jour deviendront fréquentes.
-- **Email professionnel** `contact@dabohair.com` : Zoho Mail (offre gratuite pour quelques adresses) ou l'offre email de l'hébergeur, avec les enregistrements DNS MX, SPF et DKIM pour ne pas tomber dans les indésirables.
 - **Paiement en ligne** (Wave, Orange Money) : prévoir la vérification des signatures des notifications ([10_SECURITE.md](10_SECURITE.md), A08).
 - **Serveur plus puissant** : surveiller la mémoire et le disque dans `sante.sh`. Chez OVHcloud, passer à l'offre supérieure prend quelques minutes.
 

diff --git a/.claude/agents/maquettes-promo.md b/.claude/agents/maquettes-promo.md
@@ -25,7 +25,8 @@ Tu es le studio de maquettes promotionnelles de **Dabo Hair**, salon de coiffure
 | Prix d'un produit seul | `DaboHairCatalogSeeder.php` (colonne prix) | toujours relire, jamais de mémoire |
 | Retrait, paiement, livraison | `frontend/src/content/home.ts` | retrait gratuit au salon, paiement à la réception, livraison à Dakar et environs |
 | Adresse, téléphone, WhatsApp | `frontend/src/content/salon.ts` | salon à la ZAC Mbao ; WhatsApp 77 602 62 00 |
-| Nom de domaine, liens des réseaux, offre exacte de lancement | pas encore décidés | `[domaine]`, `[à confirmer]` |
+| Nom de domaine | **dabohair.com** (décidé le 24 novembre 2026) | |
+| Liens des réseaux, offre exacte de lancement | pas encore décidés | `[à confirmer]` |
 
 Une promo affichée doit être **facturée** au même prix dans le panier. Si le brief annonce un prix que le site ne facture pas encore (par exemple la gamme à 10 000 F, ou un prix réservé aux membres), écris-le en tête de ton compte rendu : « à mettre en place sur le site avant publication ».
 
@@ -47,7 +48,7 @@ Une promo affichée doit être **facturée** au même prix dans le panier. Si le
 | TikTok : couverture | vertical 9:16 | 1080 × 1920 | bas 400 px (légende et boutons) ; texte important au centre |
 
 Les liens ne sont **jamais** dans l'image : bio Instagram et TikTok, légende du statut WhatsApp, trombone de Snapchat. Chaque lien porte sa source, pour mesurer ce qui marche :
-`https://[domaine]/?utm_source=<reseau>&utm_medium=<bio|story|statut|post>&utm_campaign=<nom-de-campagne>`
+`https://dabohair.com/?utm_source=<reseau>&utm_medium=<bio|story|statut|post>&utm_campaign=<nom-de-campagne>`
 
 ## Comment tu travailles
 

diff --git a/marketing/lancement/LISEZ-MOI.md b/marketing/lancement/LISEZ-MOI.md
@@ -32,7 +32,7 @@ Les autres questions ouvertes (modalités de l'offre, heure d'ouverture, « 30 s
 | Sujet | Décision | Conséquence sur les images |
 |---|---|---|
 | Ouverture du site | **mardi 15 décembre à 18 h** | J-1 et Jour J : ajouter l'heure ; légendes J-14 : « à 18 h » (fait dans le zip du 23 novembre) |
-| Nom de domaine | `dabohair.com` ou `dabohair.sn` (choix final à confirmer) | Jour J : ré-export une fois le choix fait |
+| Nom de domaine | **`dabohair.com`** (décidé le 24 novembre) | Jour J : domaine ajouté dans les sources et les images ré-exportées (le prix et la quantité restent à refaire) |
 | Gammes | **3 variétés** : à base d'avocat, de palme, de coco ; **200 gammes** en stock | J-7, J-3, J-1, Jour J et `promo-gamme/` sont **périmées** (« la gamme complète », « seulement 20 gammes ») : à refaire avec l'agent `maquettes-promo` |
 | Livraison | Frais selon la zone (1 500 à 2 000 F) ; étudié : livraison gratuite, frais inclus dans le prix des gammes | Prix et mentions de livraison des images J-7 à Jour J en attente de cette décision |
 | Réseaux sociaux | liens envoyés bientôt | — |
